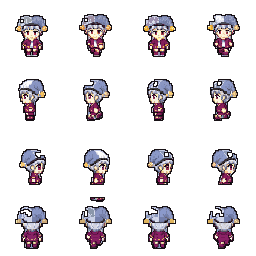
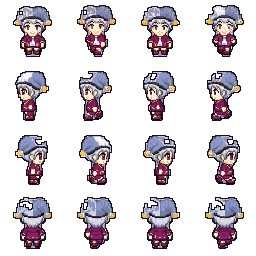
fix(sprites): restore full legs and feet on right walk frames and eliminate all floating row-0 shoes above heads across all 26 characters

diff --git a/tools/normalize_sprite_anchors.py b/tools/normalize_sprite_anchors.py
@@ -43,43 +43,44 @@ def clean_and_normalize_sheet(source: Path, destination: Path) -> None:
     boxes: list[tuple[int, int, int, int] | None] = []
 
     for row in range(4):
-        # Row 3 (facing up) has round head overflow from row 2
-        overflow_top = 12 if row == 3 else 0
+        # Row 3 (facing up) captures round head overflow from row 2
+        overflow_top = 10 if row == 3 else 0
         y1_src = max(0, row * CELL - overflow_top)
         y2_src = (row + 1) * CELL
 
         row_slice = arr[y1_src:y2_src, :].copy()
-
-        # If row 2, strictly clear bottom 16px where row 3 head might leak
-        if row == 2:
-            row_slice[row_slice.shape[0] - 16 :, :] = 0
-
         col_splits = dynamic_column_split(row_slice[..., 3])
 
         for col in range(4):
             x1_src, x2_src = col_splits[col]
             cell = row_slice[:, x1_src:x2_src].copy()
 
-            # Remove disconnected edge leaks from neighbor cells and small 1-2px floating dust
             binary = cell[..., 3] > 20
             labeled, num_features = ndimage.label(binary)
             if num_features > 0:
                 sizes = ndimage.sum_labels(binary, labeled, range(1, num_features + 1))
                 main_label = int(np.argmax(sizes)) + 1
+                main_pts = np.argwhere(labeled == main_label)
+                main_min_y, main_max_y = main_pts[:, 0].min(), main_pts[:, 0].max()
 
+                # Keep main component + close connected accessories, discard detached neighbor leaks
+                keep_mask = labeled == main_label
                 for label_idx, size in enumerate(sizes, 1):
-                    if label_idx != main_label and size <= 45:
-                        pts = np.argwhere(labeled == label_idx)
-                        touches_edge = (
-                            pts[:, 0].min() <= 1
-                            or pts[:, 0].max() >= cell.shape[0] - 2
-                            or pts[:, 1].min() <= 1
-                            or pts[:, 1].max() >= cell.shape[1] - 2
-                        )
-                        if touches_edge or size <= 3:
-                            cell[labeled == label_idx] = 0
+                    if label_idx == main_label:
+                        continue
+                    pts = np.argwhere(labeled == label_idx)
+                    comp_min_y, comp_max_y = pts[:, 0].min(), pts[:, 0].max()
 
-            # Fill any hollow internal holes or concavities in hair / skin / clothes
+                    # Discard if it is above main head or below main feet
+                    is_above = comp_max_y < main_min_y
+                    is_below = comp_min_y > main_max_y
+
+                    if not is_above and not is_below and size >= 4:
+                        keep_mask |= labeled == label_idx
+
+                cell[~keep_mask] = 0
+
+            # Fill any hollow internal holes inside hair / skin / clothes
             binary_clean = cell[..., 3] > 20
             closed = ndimage.binary_closing(binary_clean, structure=np.ones((5, 5)))
             solid = ndimage.binary_fill_holes(closed)
